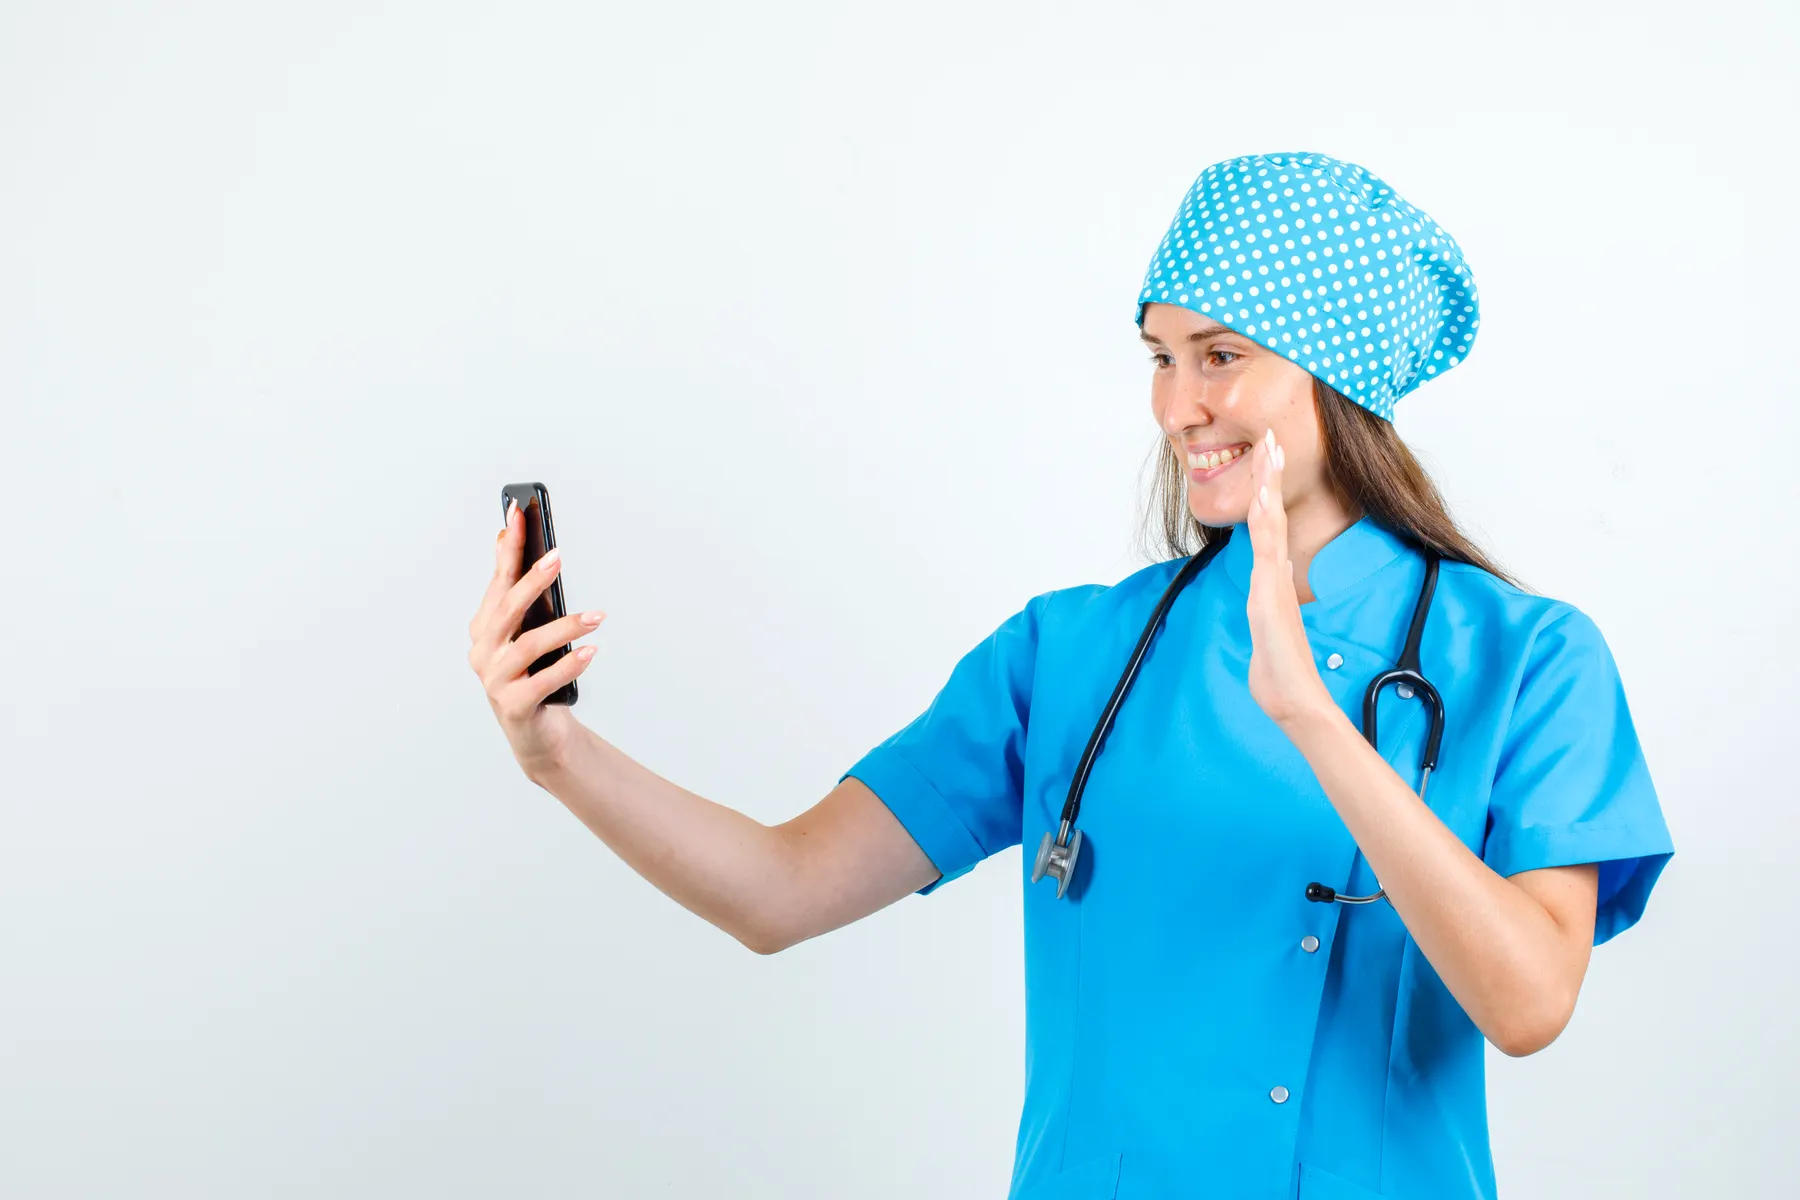
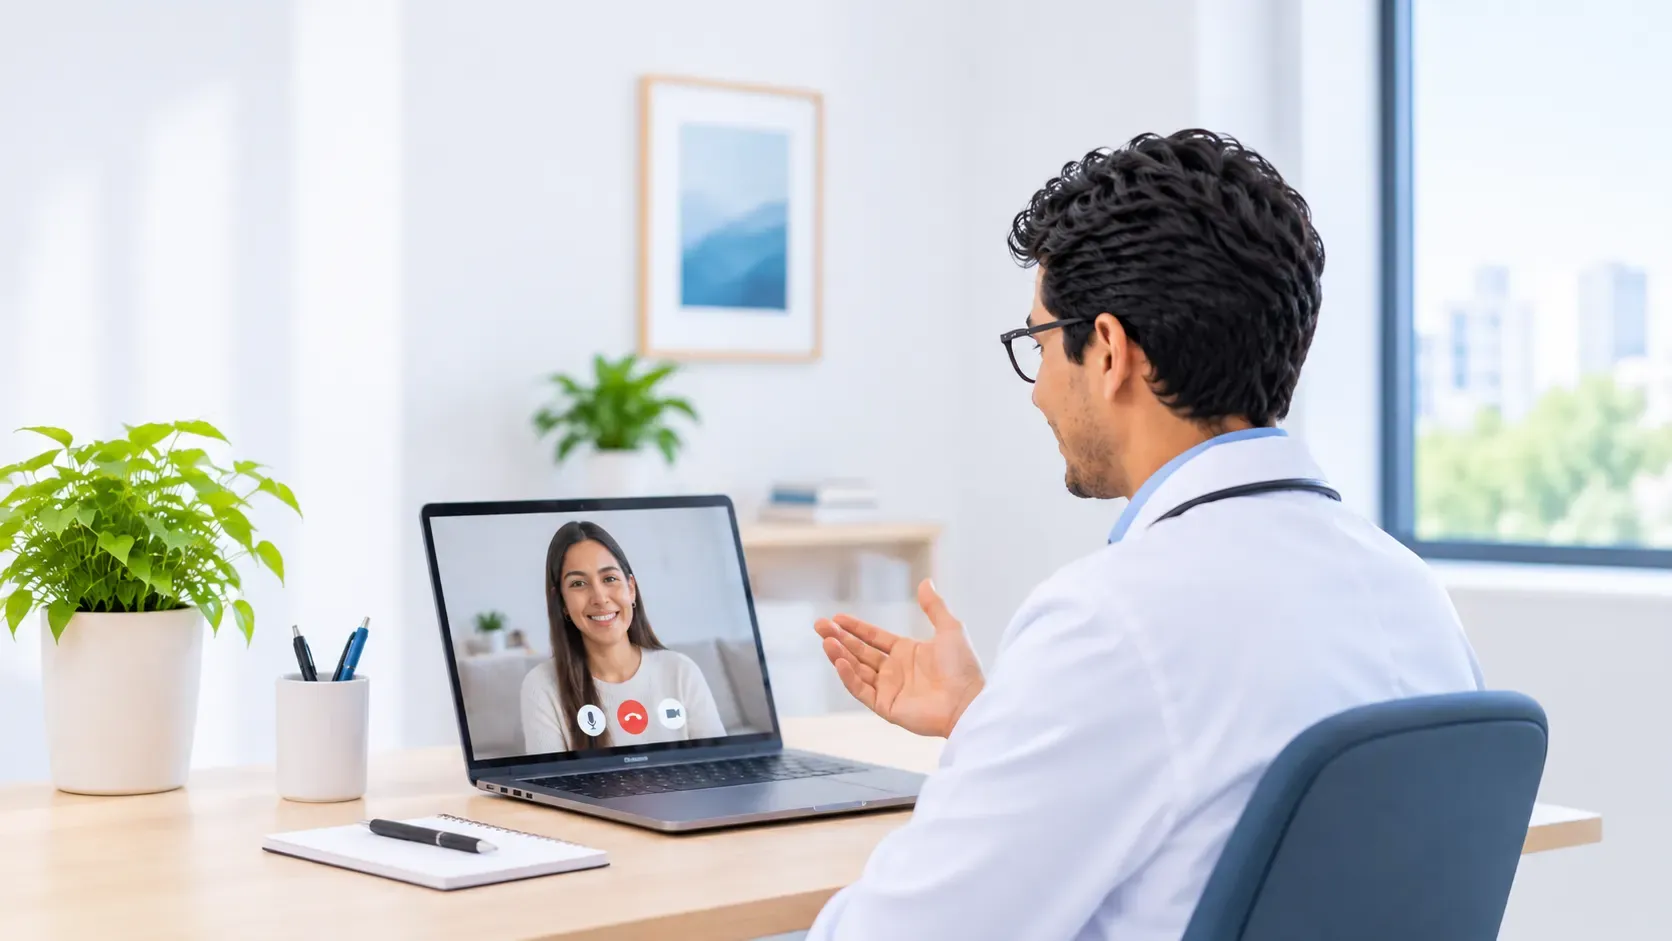
feat(home): replace hero photo and end the hero with a clean cut
New wider teleconsultation photo that fades into the page on the left and top and is cut flush by the bottom edge of the hero. Full-width hero on a subtle gray background so the next section reads as separate, a soft turquoise wave bottom-left, a one-time discover animation for the photo, floating cards anchored to the photo and the payment card kept inside the content width. Marketing pages get a white background.

diff --git a/src/features/home/components/Hero.tsx b/src/features/home/components/Hero.tsx
@@ -5,41 +5,60 @@ import { HeroFloatingCards } from "./HeroFloatingCards";
 
 export function Hero({ search }: { search: ReactNode }) {
   return (
-    <section aria-labelledby="hero-title" className="overflow-x-clip">
-      <Container>
-        <div className="bg-hero-soft relative flex flex-col rounded-3xl lg:min-h-[max(40rem,calc(100svh-8rem))]">
-          <div className="relative z-20 mx-auto w-full max-w-3xl px-4 pt-6 sm:px-6 lg:pt-8">
-            {search}
-          </div>
+    <section
+      aria-labelledby="hero-title"
+      className="relative -mt-[5.0625rem] flex flex-col overflow-hidden lg:min-h-[90svh] bg-neutral-50 lg:-mt-[6.0625rem]"
+    >
+      <svg
+        aria-hidden
+        viewBox="0 0 540 160"
+        className="pointer-events-none absolute bottom-0 left-0 w-[min(40vw,38rem)] text-tertiary-200"
+      >
+        <defs>
+          <linearGradient id="hero-blob" x1="0" y1="0" x2="1" y2="0">
+            <stop offset="0" stopColor="currentColor" stopOpacity="0.3" />
+            <stop offset="1" stopColor="currentColor" stopOpacity="0.08" />
+          </linearGradient>
+        </defs>
+        <path
+          fill="url(#hero-blob)"
+          d="M0 10C70 50 150 78 230 76C320 74 390 0 470 6C520 10 535 90 540 160H0Z"
+        />
+      </svg>
 
-          <div className="relative z-10 px-6 pt-12 sm:px-12 sm:pt-16 lg:flex lg:flex-1 lg:flex-col lg:justify-center lg:px-20 lg:pt-8 lg:pb-16">
-            <h1 id="hero-title" className="max-w-3xl text-4xl sm:text-6xl lg:max-w-2xl lg:text-6xl">
-              Encuentra a tu{" "}
-              <span className="box-decoration-clone bg-linear-to-r from-primary-600 via-primary-500 to-primary-400 bg-clip-text text-transparent">
-                médico ideal
-              </span>
-              , estés donde estés.
-            </h1>
-            <p className="mt-8 max-w-xl text-lg leading-7 text-neutral-700 sm:text-xl sm:leading-8 lg:max-w-md">
-              Agenda consultas virtuales o presenciales con especialistas de confianza, de forma
-              sencilla y rápida.
-            </p>
-          </div>
+      <Container className="relative z-10 flex flex-1 flex-col pt-28 lg:min-h-160 lg:pt-32">
+        <div className="relative z-20 mx-auto w-full max-w-3xl">{search}</div>
 
-          <div className="relative mt-6 aspect-[4/3] [mask-image:linear-gradient(to_bottom,transparent,black_30%)] overflow-hidden rounded-b-3xl lg:absolute lg:inset-y-0 lg:right-0 lg:mt-0 lg:aspect-auto lg:w-[62%] lg:rounded-b-none lg:rounded-r-3xl lg:[mask-image:linear-gradient(to_right,transparent,black_38%)]">
-            <Image
-              src="/images/hero-teleconsulta.webp"
-              alt="Médica con uniforme azul saludando durante una videollamada desde su celular"
-              fill
-              priority
-              sizes="(min-width: 1024px) 62vw, 100vw"
-              className="object-cover object-[65%_center] brightness-[0.97] saturate-[0.8]"
-            />
-          </div>
-
-          <HeroFloatingCards />
+        <div className="relative z-10 pt-12 sm:pt-16 lg:flex lg:flex-1 lg:flex-col lg:justify-center lg:pt-8 lg:pb-20">
+          <h1
+            id="hero-title"
+            className="max-w-3xl text-4xl font-bold sm:text-6xl lg:max-w-2xl lg:text-6xl"
+          >
+            Encuentra al{" "}
+            <span className="box-decoration-clone bg-linear-to-r from-primary-600 via-primary-500 to-primary-400 bg-clip-text text-transparent">
+              especialista ideal
+            </span>
+            , estés donde estés.
+          </h1>
+          <p className="mt-8 max-w-xl text-lg leading-7 text-neutral-700 sm:text-xl sm:leading-8 lg:max-w-md">
+            Agenda consultas virtuales o presenciales con profesionales de salud de confianza, de
+            forma sencilla y rápida.
+          </p>
         </div>
       </Container>
+
+      <div className="relative mt-6 aspect-[1672/941] [mask-image:linear-gradient(to_bottom,transparent,black_18%)] lg:absolute lg:right-0 lg:bottom-0 lg:mt-0 lg:w-[min(72%,1280px)] lg:[mask-composite:intersect] lg:[mask-image:linear-gradient(to_right,transparent_10%,black_40%),linear-gradient(to_bottom,transparent,black_12%)]">
+        <Image
+          src="/images/hero-teleconsulta.webp"
+          alt="Médico de bata blanca conversando por videollamada con una paciente que sonríe en la pantalla de su laptop"
+          fill
+          priority
+          sizes="(min-width: 1024px) min(72vw, 1280px), 100vw"
+          className="animate-discover object-cover"
+        />
+      </div>
+
+      <HeroFloatingCards />
     </section>
   );
 }

diff --git a/src/features/home/components/HeroFloatingCards.tsx b/src/features/home/components/HeroFloatingCards.tsx
@@ -49,28 +49,28 @@ export function HeroFloatingCards() {
   return (
     <div
       aria-hidden
-      className="pointer-events-none absolute inset-y-0 right-0 z-10 hidden w-[62%] xl:block"
+      className="pointer-events-none absolute right-0 bottom-0 z-10 hidden aspect-[1672/941] w-[min(72%,1280px)] xl:block"
     >
       <FloatingCard
         icon={<ShieldCheck size={20} />}
         tone="accent"
         title="Médico verificado"
         detail="Especialista de confianza"
-        className="top-[80%] left-[35%] animate-float"
+        className="top-[82%] left-[38%] animate-float"
       />
       <FloatingCard
         icon={<CalendarCheck size={20} />}
         tone="success"
         title="Cita confirmada"
         detail="Virtual · 4:30 p. m."
-        className="top-[50%] left-[26%] animate-float-slow"
+        className="top-[30%] left-[34%] animate-float-slow"
       />
       <FloatingCard
         icon={<Lock size={20} />}
         tone="primary"
         title="Pago seguro"
         detail="Con tarjeta o Yape"
-        className="top-[70%] right-4 animate-float-alt"
+        className="top-[72%] right-[calc(max(0px,(100vw-88rem)/2)+3rem)] animate-float-alt"
       />
     </div>
   );

diff --git a/src/app/(marketing)/layout.tsx b/src/app/(marketing)/layout.tsx
@@ -3,7 +3,7 @@ import { Header } from "@/shared/layout/Header";
 
 export default function MarketingLayout({ children }: { children: React.ReactNode }) {
   return (
-    <>
+    <div className="flex flex-1 flex-col bg-white">
       <a
         href="#contenido"
         className="sr-only focus:not-sr-only focus:fixed focus:top-3 focus:left-3 focus:z-50 focus:rounded-full focus:bg-neutral-900 focus:px-4 focus:py-2 focus:text-sm focus:font-semibold focus:text-white"
@@ -15,6 +15,6 @@ export default function MarketingLayout({ children }: { children: React.ReactNod
         {children}
       </main>
       <Footer />
-    </>
+    </div>
   );
 }

diff --git a/src/styles/theme.css b/src/styles/theme.css
@@ -70,9 +70,21 @@
 
   --ease-out-soft: cubic-bezier(0.22, 1, 0.36, 1);
   --animate-reveal: reveal 500ms var(--ease-out-soft) both;
+  --animate-discover: discover 900ms var(--ease-out-soft) both;
   --animate-float: float 7s ease-in-out infinite;
   --animate-float-slow: float 9s ease-in-out -3s infinite;
   --animate-float-alt: float 8s ease-in-out -5s infinite;
+
+  @keyframes discover {
+    from {
+      opacity: 0;
+      transform: translateX(28px) scale(1.03);
+    }
+    to {
+      opacity: 1;
+      transform: none;
+    }
+  }
 
   @keyframes float {
     0%,

diff --git a/src/styles/globals.css b/src/styles/globals.css
@@ -82,10 +82,3 @@
     animation-range: entry 0% entry 40%;
   }
 }
-
-@utility bg-hero-soft {
-  background-color: var(--color-white);
-  background-image:
-    radial-gradient(60% 80% at 0% 100%, var(--color-tertiary-100) 0%, transparent 70%),
-    radial-gradient(45% 55% at 100% 0%, var(--color-tertiary-50) 0%, transparent 70%);
-}
